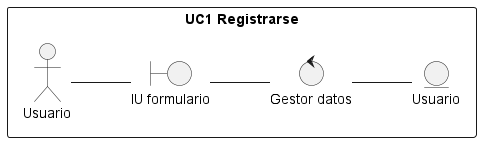
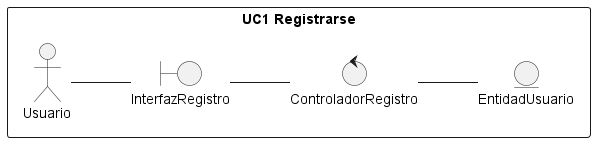
diagrama de clases de analisis

diff --git a/README.md b/README.md
@@ -66,15 +66,9 @@ El **Equipo de Trabajo** está conformado por:
   </div>
   <div align="center">
     <h4 style="text-decoration:underline">
-    Diagramas de Análisis de los Casos de Uso
+    Diagrama de Análisis de los Casos de Uso
     </h4>
-    <img src="docs/scenariosView/diagramas-de-analisis/DA1.png" alt="Diagrama-Analisis" style="border-radius:5px;">
-    <img src="docs/scenariosView/diagramas-de-analisis/DA2.png" alt="Diagrama-Analisis" style="border-radius:5px">
-    <img src="docs/scenariosView/diagramas-de-analisis/DA7.png" alt="Diagrama-Analisis" style="border-radius:5px">
-    <img src="docs/scenariosView/diagramas-de-analisis/DA9.png" alt="Diagrama-Analisis" style="border-radius:5px">
-    <img src="docs/scenariosView/diagramas-de-analisis/DA10.png" alt="Diagrama-Analisis" style="border-radius:5px">
-    <img src="docs/scenariosView/diagramas-de-analisis/DA12.png" alt="Diagrama-Analisis" style="border-radius:5px">
-    <img src="docs/scenariosView/diagramas-de-analisis/DA14.png" alt="Diagrama-Analisis" style="border-radius:5px">
+    <img src="docs/scenariosView/Diagrama Analisis.png" alt="Diagrama-Analisis" style="border-radius:5px;">
   </div>
   <div align="center">
     <h4 style="text-decoration:underline">
